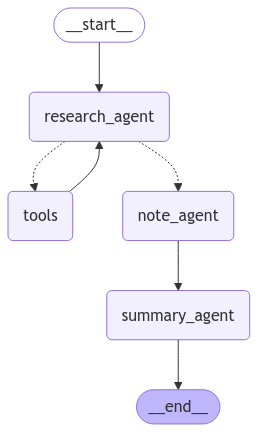
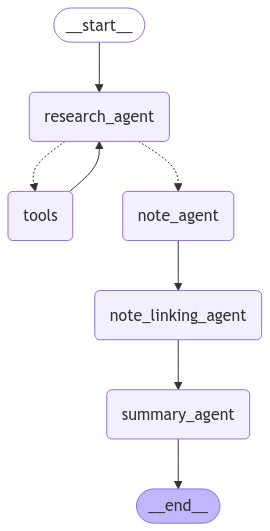
note linking agent

diff --git a/backend/agents/note_linking_agent.py b/backend/agents/note_linking_agent.py
@@ -4,23 +4,42 @@ from tools import file_writer_tool
 from langchain_core.messages import AIMessage, SystemMessage
 from langgraph.types import Command
 from agents.system_prompts import SystemPrompts
+import os
+from pathlib import Path
+
+# Get the absolute path to the quartz/content directory
+CONTENT_DIR = Path(__file__).parent.parent / "quartz" / "content"
 
 def read_note(file_name: str):
     """
     Read note content from file.
     """
     try:
-        with open(f"../quartz/content/{file_name}.md", "r") as f:
+        file_path = CONTENT_DIR / f"{file_name}.md"
+        with open(file_path, "r") as f:
             return f.read()
     except Exception as e:
         raise Exception(f"Error reading file {file_name}.md: {e}")
-    
+
+def list_notes():
+    """
+    List all notes in the content directory.
+    """
+    try:
+        return [f.stem for f in CONTENT_DIR.glob("*.md")]
+    except Exception as e:
+        raise Exception(f"Error listing notes: {e}")
+
 def write_note(file_name: str, content: str):
     """
     Write content to a file.
     """
     try:
-        with open(f"../quartz/content/{file_name}.md", "w") as f:
+        # Ensure the content directory exists
+        CONTENT_DIR.mkdir(parents=True, exist_ok=True)
+        
+        file_path = CONTENT_DIR / f"{file_name}.md"
+        with open(file_path, "w") as f:
             f.write(content)
         return f"File {file_name}.md written successfully."
     except Exception as e:
@@ -31,29 +50,29 @@ def note_linking_agent(state: GraphState):
     """
     This agent is responsible for generating a note based on the research results and the user prompt.
     """
-
+    print('note linking agent')
     prompt = SystemMessage(content=SystemPrompts.TaggingAgentPrompt)
 
     errors = []
     
     llm = ChatOpenAI(model_name="gpt-4o-mini", temperature=0)
 
-    response = llm.invoke(prompt)
+    response = llm.invoke([prompt] + state["messages"])
 
     try:
-        write_note(state.generated_note.name, response.content)
+        write_note(state["generated_note"]["title"], response.content)
     except Exception as e:
-        errors.append(f"Error writing note {state.generated_note.name}: {e}")
+        errors.append(f"Error writing note {state["generated_note"]["title"]}: {e}")
 
-    for note in state.existing_notes:
-        read_note(note)
+    for note in list_notes():
+        existing_note = read_note(note)
         prompt = f"""
-        Update the note content so that it links to the "{state.note.name}" note. A link to a note is formatted as [[{state.note.name}]].
-        If linking to a note would change the text of the note, use an alias [[{state.note.name} | source text]]. Do not change the content of the note, only add links.
+        Update the note content so that it links to the "{state["generated_note"]["title"]}" note. A link to a note is formatted as [[{state["generated_note"]["title"]}]].
+        If linking to a note would change the text of the note, use an alias [{state["generated_note"]["title"]} | source text]]. Do not change the content of the note, only add links.
         If you are unable to add a link, do not add any links.
 
         Current note:
-        {state.generated_note.content}
+        {existing_note}
         """
 
         response = llm.invoke(prompt)
@@ -67,8 +86,6 @@ def note_linking_agent(state: GraphState):
         output = f"Errors: {errors}"
     else:
         output = "Linking successful."
-
-        state.note_titles = [state.generated_note.name]
 
     return Command(
         update={

diff --git a/backend/main.py b/backend/main.py
@@ -19,13 +19,12 @@ SESSIONS_DIR.mkdir(exist_ok=True)
 def _generate_session_id():
     return str(uuid.uuid4())
 
-def _load_or_create_session():
+def _load_or_create_session(session_id: str = None):
     # Look for the most recent session file
-    session_files = list(SESSIONS_DIR.glob("session_*.json"))
-    if session_files:
-        latest_session = max(session_files, key=os.path.getctime)
-        with open(latest_session, 'r') as f:
-            return json.load(f), latest_session.stem.replace('session_', '')
+    session_file = SESSIONS_DIR / f"session_{session_id}.json"
+    if session_file.exists():
+        with open(session_file, 'r') as f:
+            return json.load(f), session_id
     
     # Create new session if none exists
     session_id = _generate_session_id()
@@ -63,10 +62,13 @@ async def main():
     graph = Graph()
     graph.save_graph_image()
     
-    # Load or create session state
-    session_state, session_id = _load_or_create_session()
-
+    # Generate a new session ID
+    session_id = _generate_session_id()
+    
     async def process_message(user_input: str):
+        # Load session state with the generated session ID
+        session_state, _ = _load_or_create_session(session_id)
+        print('session_state', session_state)
         # Update session state
         session_state["user_prompt"] = user_input
         session_state["messages"].append(HumanMessage(content=user_input))

diff --git a/backend/agents/summary_agent.py b/backend/agents/summary_agent.py
@@ -9,7 +9,7 @@ async def summary_agent(state: GraphState, config: RunnableConfig):
     """
     This agent is responsible for summarizing the research results and the flow of the application.
     """
-
+    print('summary agent')
     system_prompt = SystemMessage(content=SystemPrompts.SummaryAgentPrompt)
 
     llm = ChatOpenAI(model="gpt-4o-mini", temperature=0)

diff --git a/backend/agents/note_agent.py b/backend/agents/note_agent.py
@@ -7,6 +7,7 @@ def note_agent(state: GraphState):
     """
     This agent is responsible for generating a note based on the research results and the user prompt.
     """
+    print('note agent')
     prompt = SystemMessage(content=SystemPrompts.NotingAgentPrompt)
     
     llm = ChatOpenAI(model_name="gpt-4o-mini", temperature=0)

diff --git a/backend/agents/research_agent.py b/backend/agents/research_agent.py
@@ -29,7 +29,6 @@ async def research_agent(state: GraphState, config: RunnableConfig):
 
     # Access state as dictionary
     messages = state["messages"]
-    print('messages', messages[-1].tool_calls)
     response = await llm_w_tools.ainvoke([system_prompt] + messages)
 
     return Command(

diff --git a/backend/quartz/content/Criteria for Planet Habitability.md b/backend/quartz/content/Criteria for Planet Habitability.md
@@ -1,0 +1,18 @@
+The criteria that make a planet habitable include:
+
+1. **Location in the Habitable Zone:** A planet must be located in the "habitable zone" around its star, where temperatures allow for liquid water to exist on its surface.
+
+2. **Atmospheric Conditions:** A suitable atmosphere is essential for protecting life from harmful radiation and maintaining the right pressure for liquid water.
+
+3. **Geological Activity:** Active geology can help recycle nutrients and maintain a stable climate, which is beneficial for sustaining life.
+
+4. **Potential for Unexpected Environments:** Recent discoveries suggest that life can exist in extreme conditions, indicating that the criteria for habitability may be broader than previously thought.
+
+5. **Interactions with Other Celestial Bodies:** The presence of other planets and their interactions can also influence a planet's habitability.
+
+These factors are part of a complex network of interactions that determine whether a planet can support life. For more details, see [[Criteria for Planet Habitability]].
+
+### Follow-Up Questions:
+1. What are some examples of exoplanets that are considered potentially habitable?
+2. How do scientists determine the atmospheric composition of distant planets?
+3. What role does water play in the search for extraterrestrial life?

diff --git a/backend/quartz/content/index.md b/backend/quartz/content/index.md
@@ -2,4 +2,4 @@
 title: Welcome to your thought map
 ---
 
-Ever topic that you have resarched with your assistant will be saved here. You can check the map of your thoughts that is generated on the right panel.
+Ever topic that you have researched with your assistant will be saved here. You can check the map of your thoughts that is generated on the right panel. You can also refer to the [[Criteria for Planet Habitability]] for more information on what makes a planet suitable for life.

diff --git a/backend/quartz/content/Earth.md b/backend/quartz/content/Earth.md
@@ -1,6 +1,6 @@
-Earth is the third planet in our [[Solar system | solar system]]. It is the only planet known to have life.
+Current note:
+Earth is the third planet in our [[Solar system | solar system]]. It is the only planet known to have life, which is assessed based on various [[Criteria for Planet Habitability | criteria for habitability]].
 
 ## History
 
 Earth was formed 4.54 billion years ago.
-

diff --git a/backend/quartz/content/Mars.md b/backend/quartz/content/Mars.md
@@ -2,4 +2,4 @@ Mars is the fourth planet in our solar system.
 
 ## History
 
-Mars was formed 4.54 billion years ago.
+Mars was formed 4.54 billion years ago. [[Criteria for Planet Habitability | habitability criteria]]

diff --git a/backend/quartz/content/Solar system.md b/backend/quartz/content/Solar system.md
@@ -14,3 +14,5 @@ The solar system has 8 planets:
 - Mars
 - Jupiter
 - Saturn
+
+For a planet to be considered habitable, it must meet certain criteria. See [[Criteria for Planet Habitability]] for more information.
